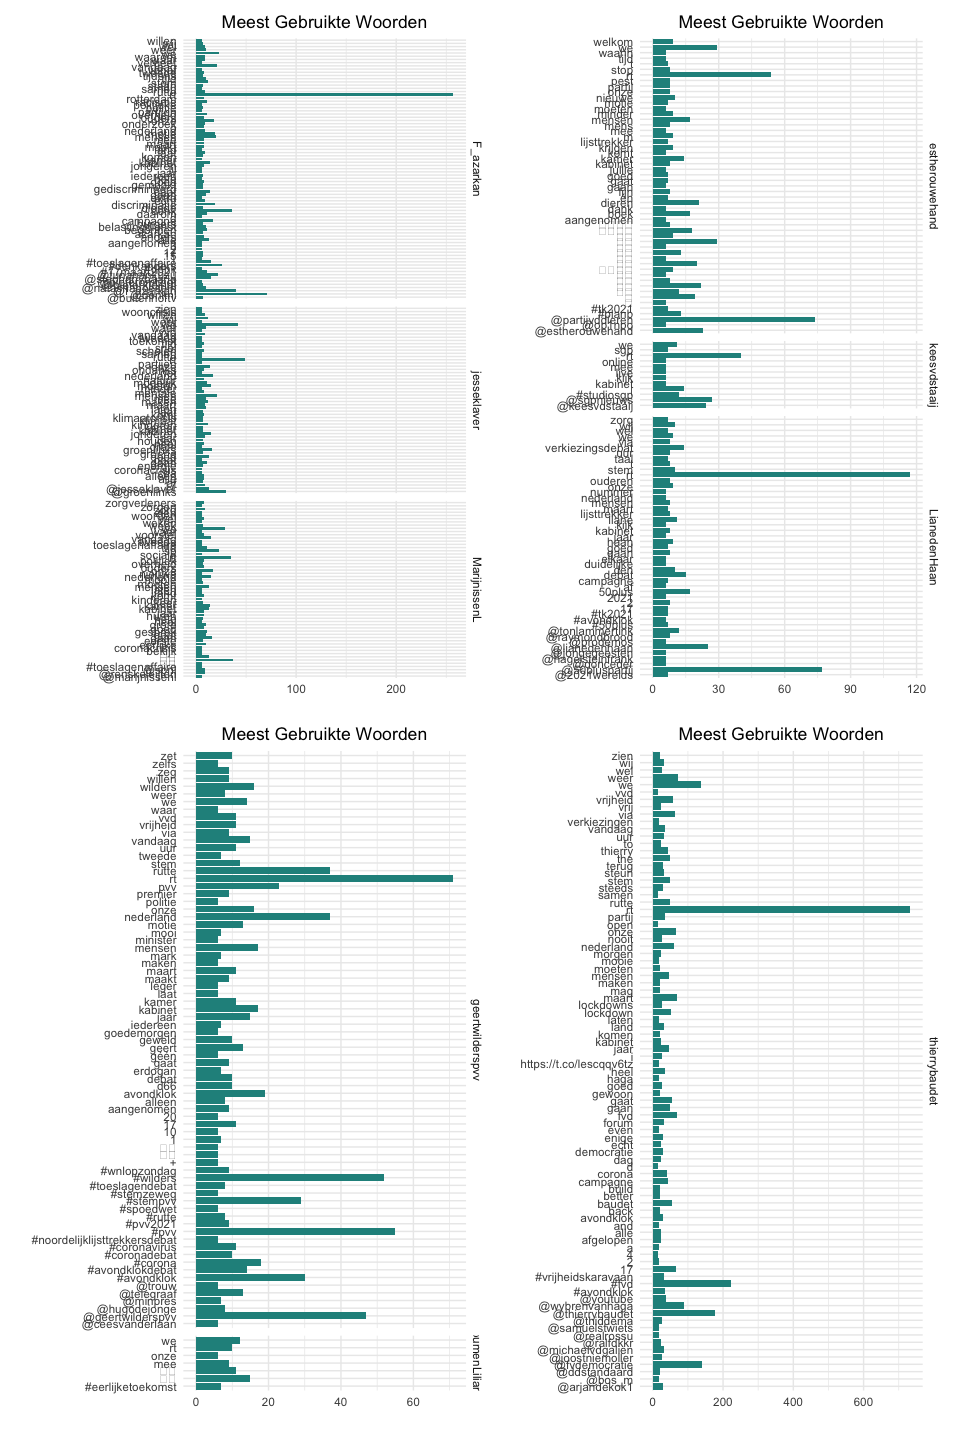
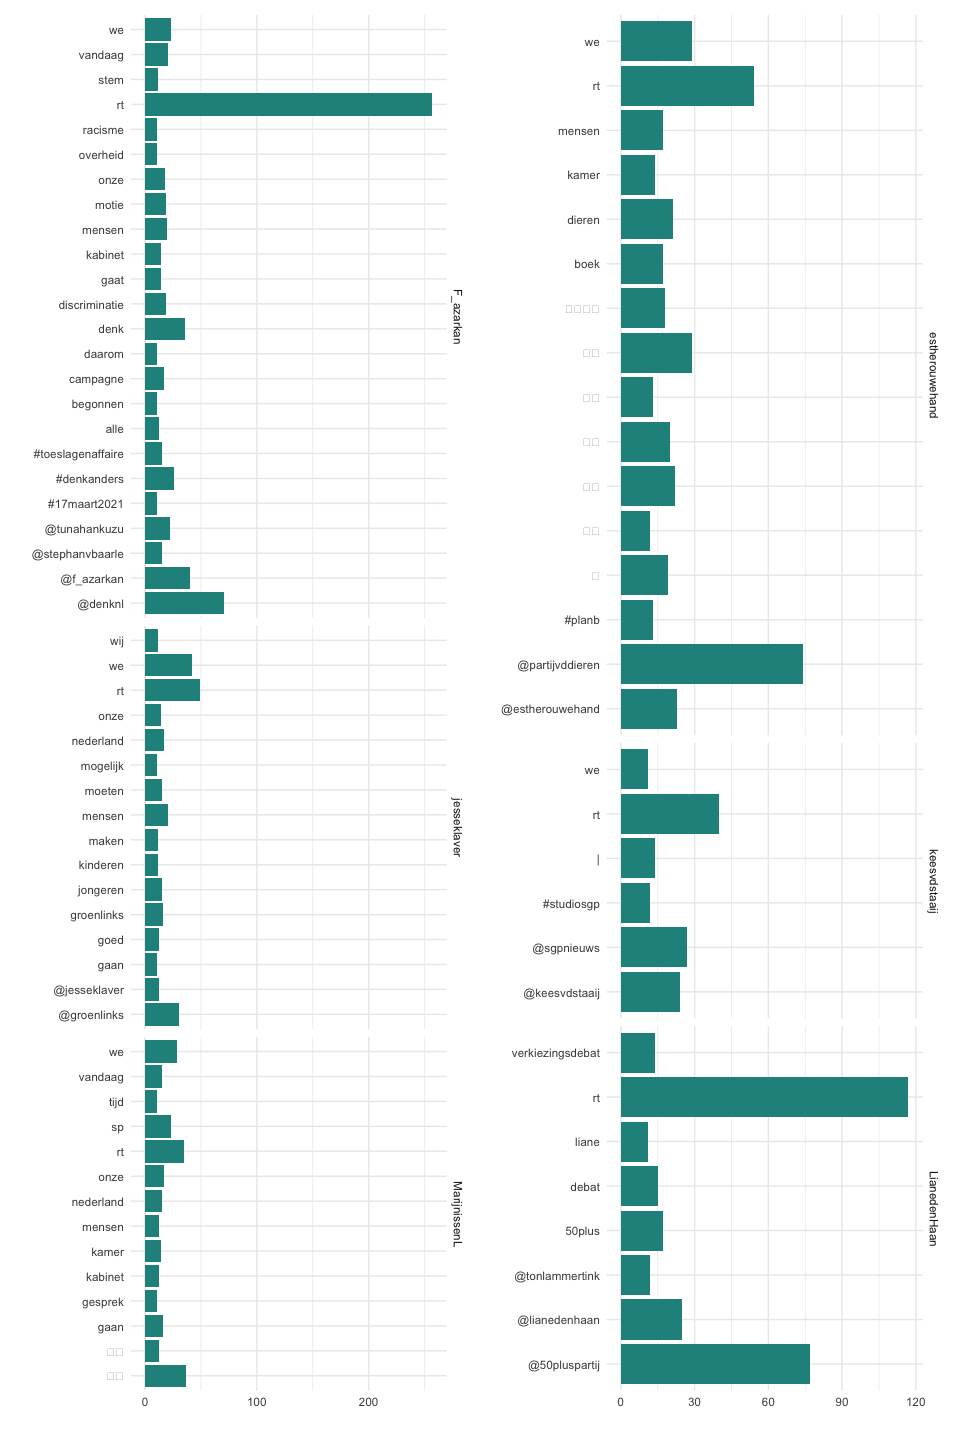
first analysis propaganda

diff --git a/docs/reports/sm-propaganda/misinformatie-sm-propaganda.md b/docs/reports/sm-propaganda/misinformatie-sm-propaganda.md
@@ -15,18 +15,47 @@ Verspreiden van Informatie
 
 In onderstaande figuur is te zien welke woorden Mark Rutte (zowel
 persoonlijk als ambtsaccount), Wopke Hoekstra, Gert-Jan Segers en Sigrid
-Kaag sinds het begin van de verkiezingscampagne het meest voorkomen. Hoe
-groter de woorden, hoe vaker Duidelijk wordt dat op basis van deze
-woorden er
+Kaag sinds het begin van de verkiezingscampagne het meest voorkomen.
+Rutte spreekt het meest over de coronacrisis en gerelateerde maatregelen
+waar “we” ons samen aan moeten houden. De overige lijstrekkers van
+partijen die de huidige demissionaire regering vormen spreken ook over
+de coronacrisis, maar gebruiken ook woorden van hoop – mooie, nieuwe,
+\#nudoorpakken. Duidelijk wordt dat op basis van deze woorden er geen
+aanleiding is om aan te nemen dat het hier om misinformatie gaat.
 
 <img src="sharing on twitter - coalitiepartijen-1.png" alt="Regeringspartijleiders op Twitter"  />
 <p class="caption">
 Regeringspartijleiders op Twitter
 </p>
 
+Kijkend naar de oppositiepartijen, zien we dat Farid Azarkan
+(@F\_azarkan) van Denk veel berichten *retweet*. Verder valt op dat er
+veel over racisme, moties, het kabinet en discriminatie gepraat wordt.
+Nadere inspectie van de data laat zien dat het hier niet gaat over
+desinformatie, of informatie van misleidende aard. Klaver (@jesseklaver)
+van GroenLinks heeft het voornamelijk over perspectief vooor jongeren en
+over een nieuwe toekomst van Nederland – geen reden om aan te nemen dat
+het gaat over desinformatie, of informatie van misleidende aard.
+Hetzelfde geldt voor Lilian Marijnissen (@MarijnissenL) van de SP, Ester
+Ouwehand (@esterouwehand) van PvdD, Kees van der Staaij (@keesvdstaaij)
+van de SGP, Liane den Haan (@LiandedenHaan) van 50Plus, en Lilianne
+Ploumen (@PloumenLilianne) van de PvdA. Kijken naar de woorde die Geert
+Wilders (@geertwilderspvv) van de PVV het meest gebruikt, zien we
+woorden als vrijheid, avondklok, motie, 17 maart, en \#corona(virus).
+Inspectie van de data laat veel kritiek op het (demissionaire) kabinet
+zien, en ideologisch sterk gekleurde informatie – maar het lijkt meer op
+framing van bijv. het immigratiedebat dan echt bewuste misinformatie.
+Kijkend naar de woorden die Thierry Baudet (@thierrybaudet) van FvD het
+meest gebruikt, en na inspectie van de data, zien we meerdere berichten
+met informatie die onjuist is. Daarnaast zien we ook dat Baudet als
+enige samenzeerders retweet, zoals bijvoorbeeld @wierdduk.
+
 <img src="sharing on twitter - oppositiepartijen-1.png" alt="Regeringspartijleiders op Twitter"  />
 <p class="caption">
 Regeringspartijleiders op Twitter
 </p>
 
-<img src="unnamed-chunk-1-1.png" style="display: block; margin: auto;" />
+<img src="sharing on twitter - oppositiepartijen-2.png" alt="Regeringspartijleiders op Twitter"  />
+<p class="caption">
+Regeringspartijleiders op Twitter
+</p>
